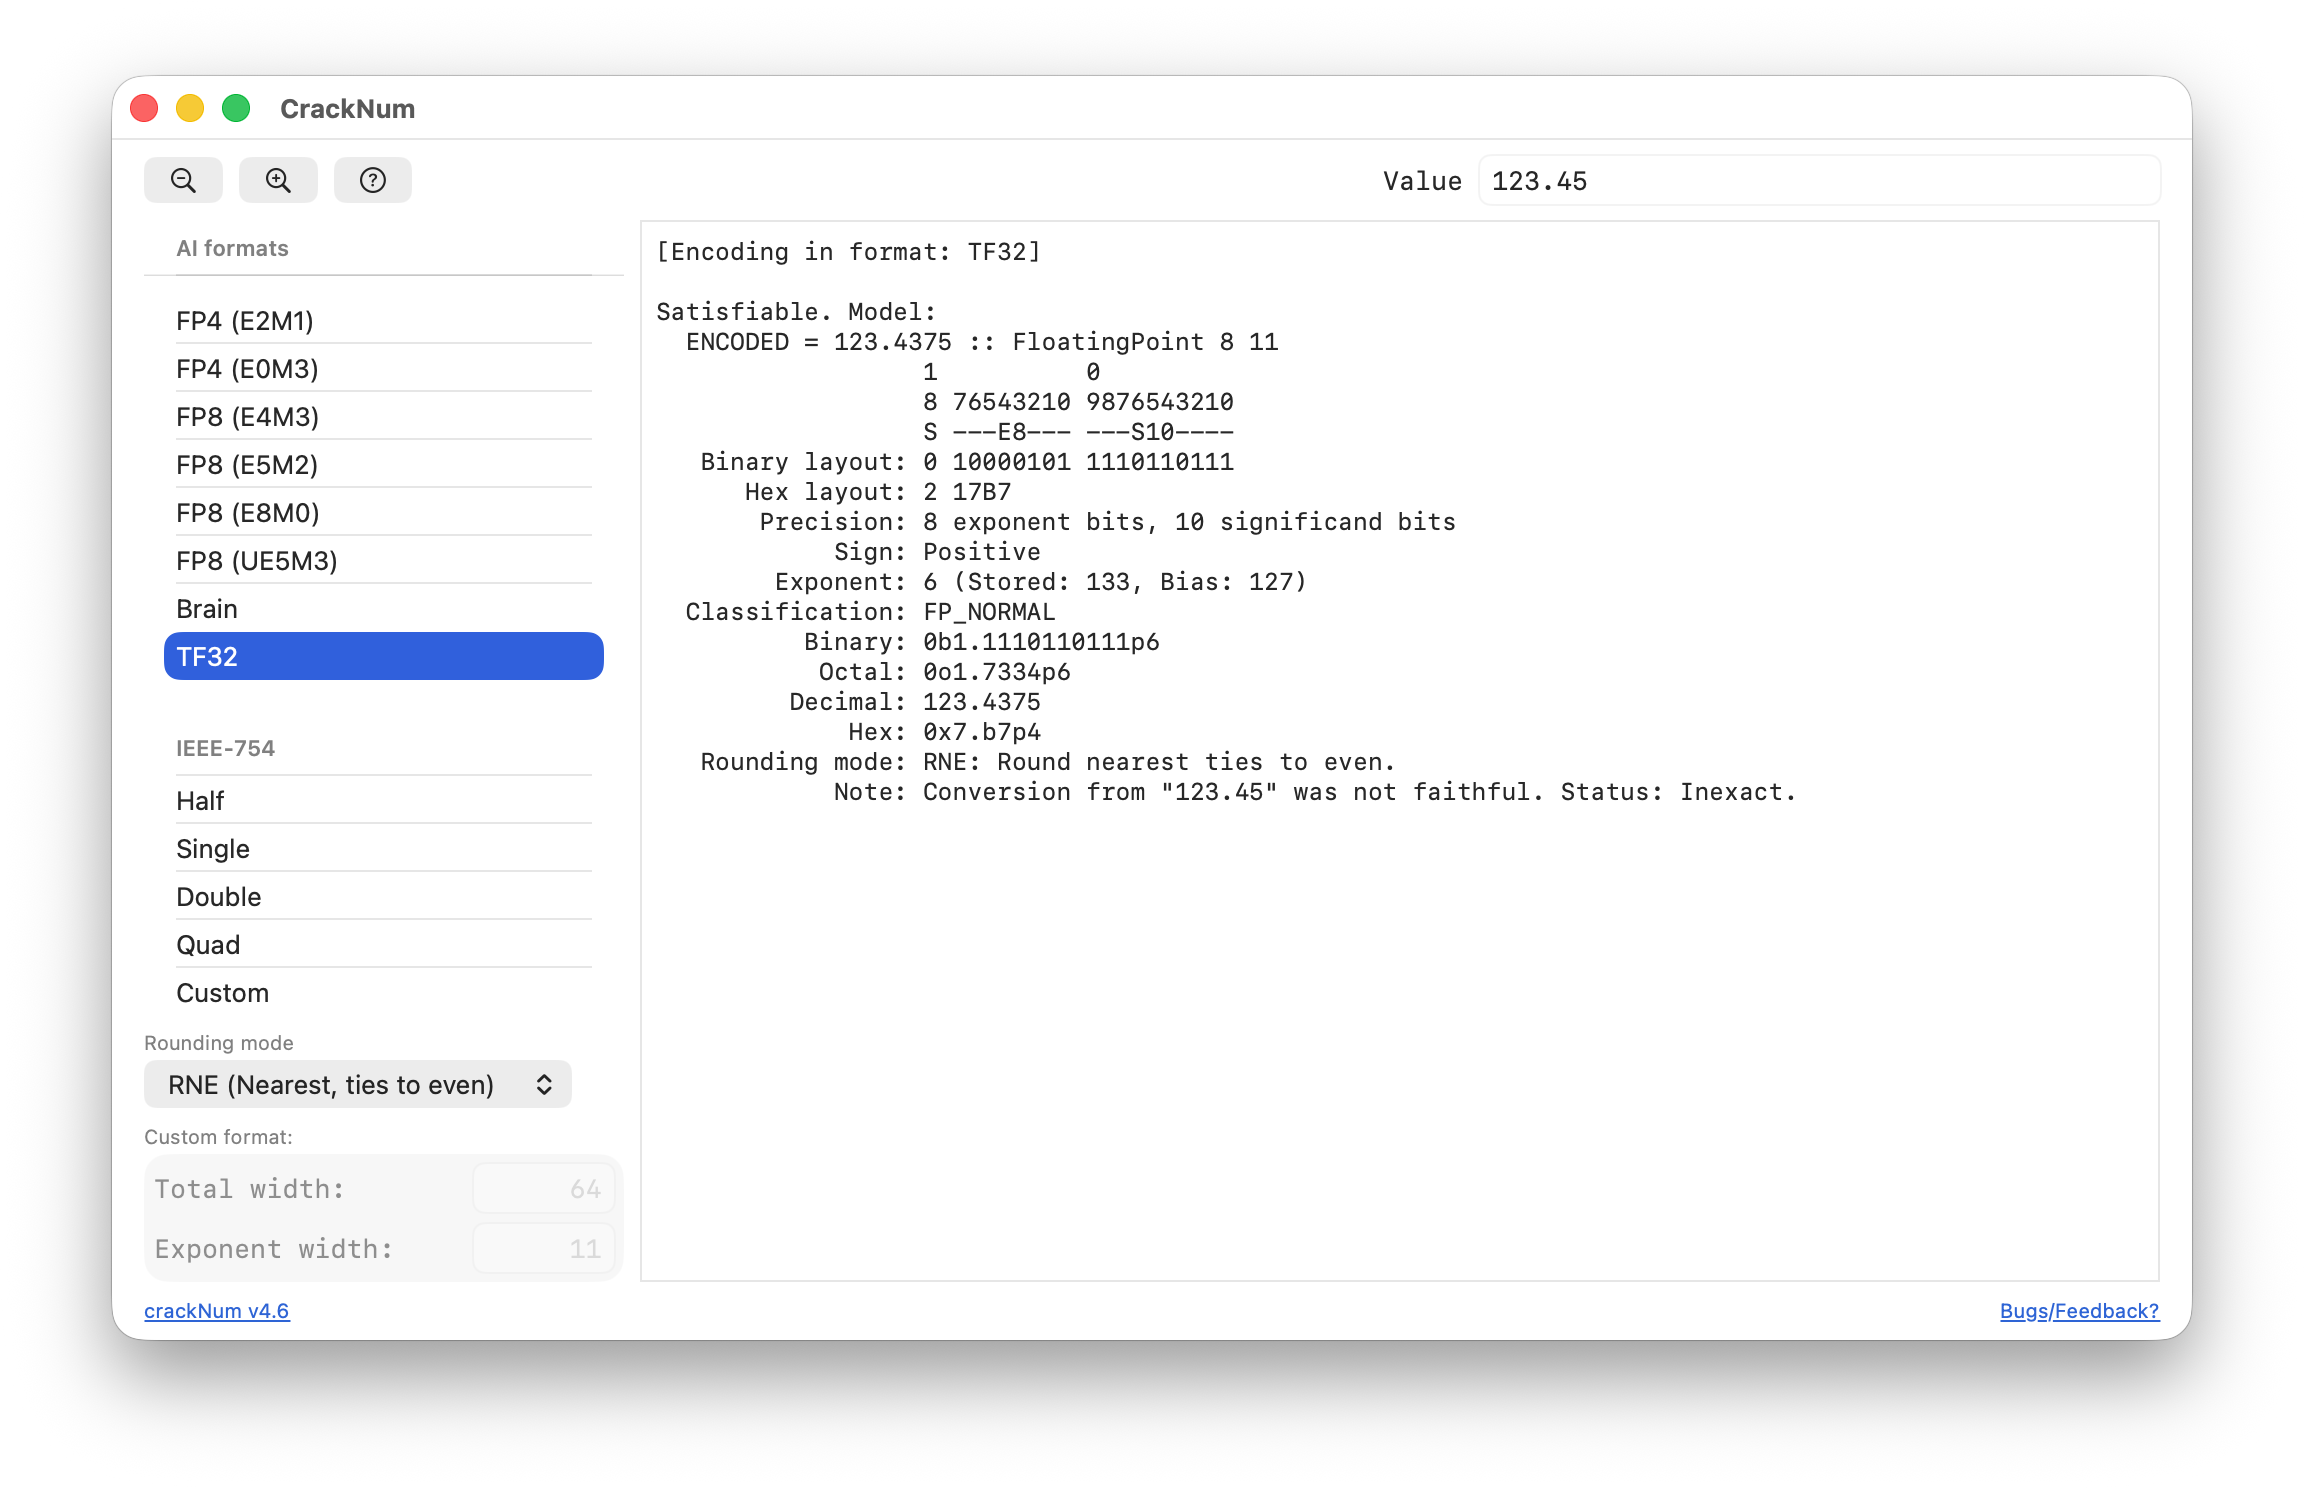
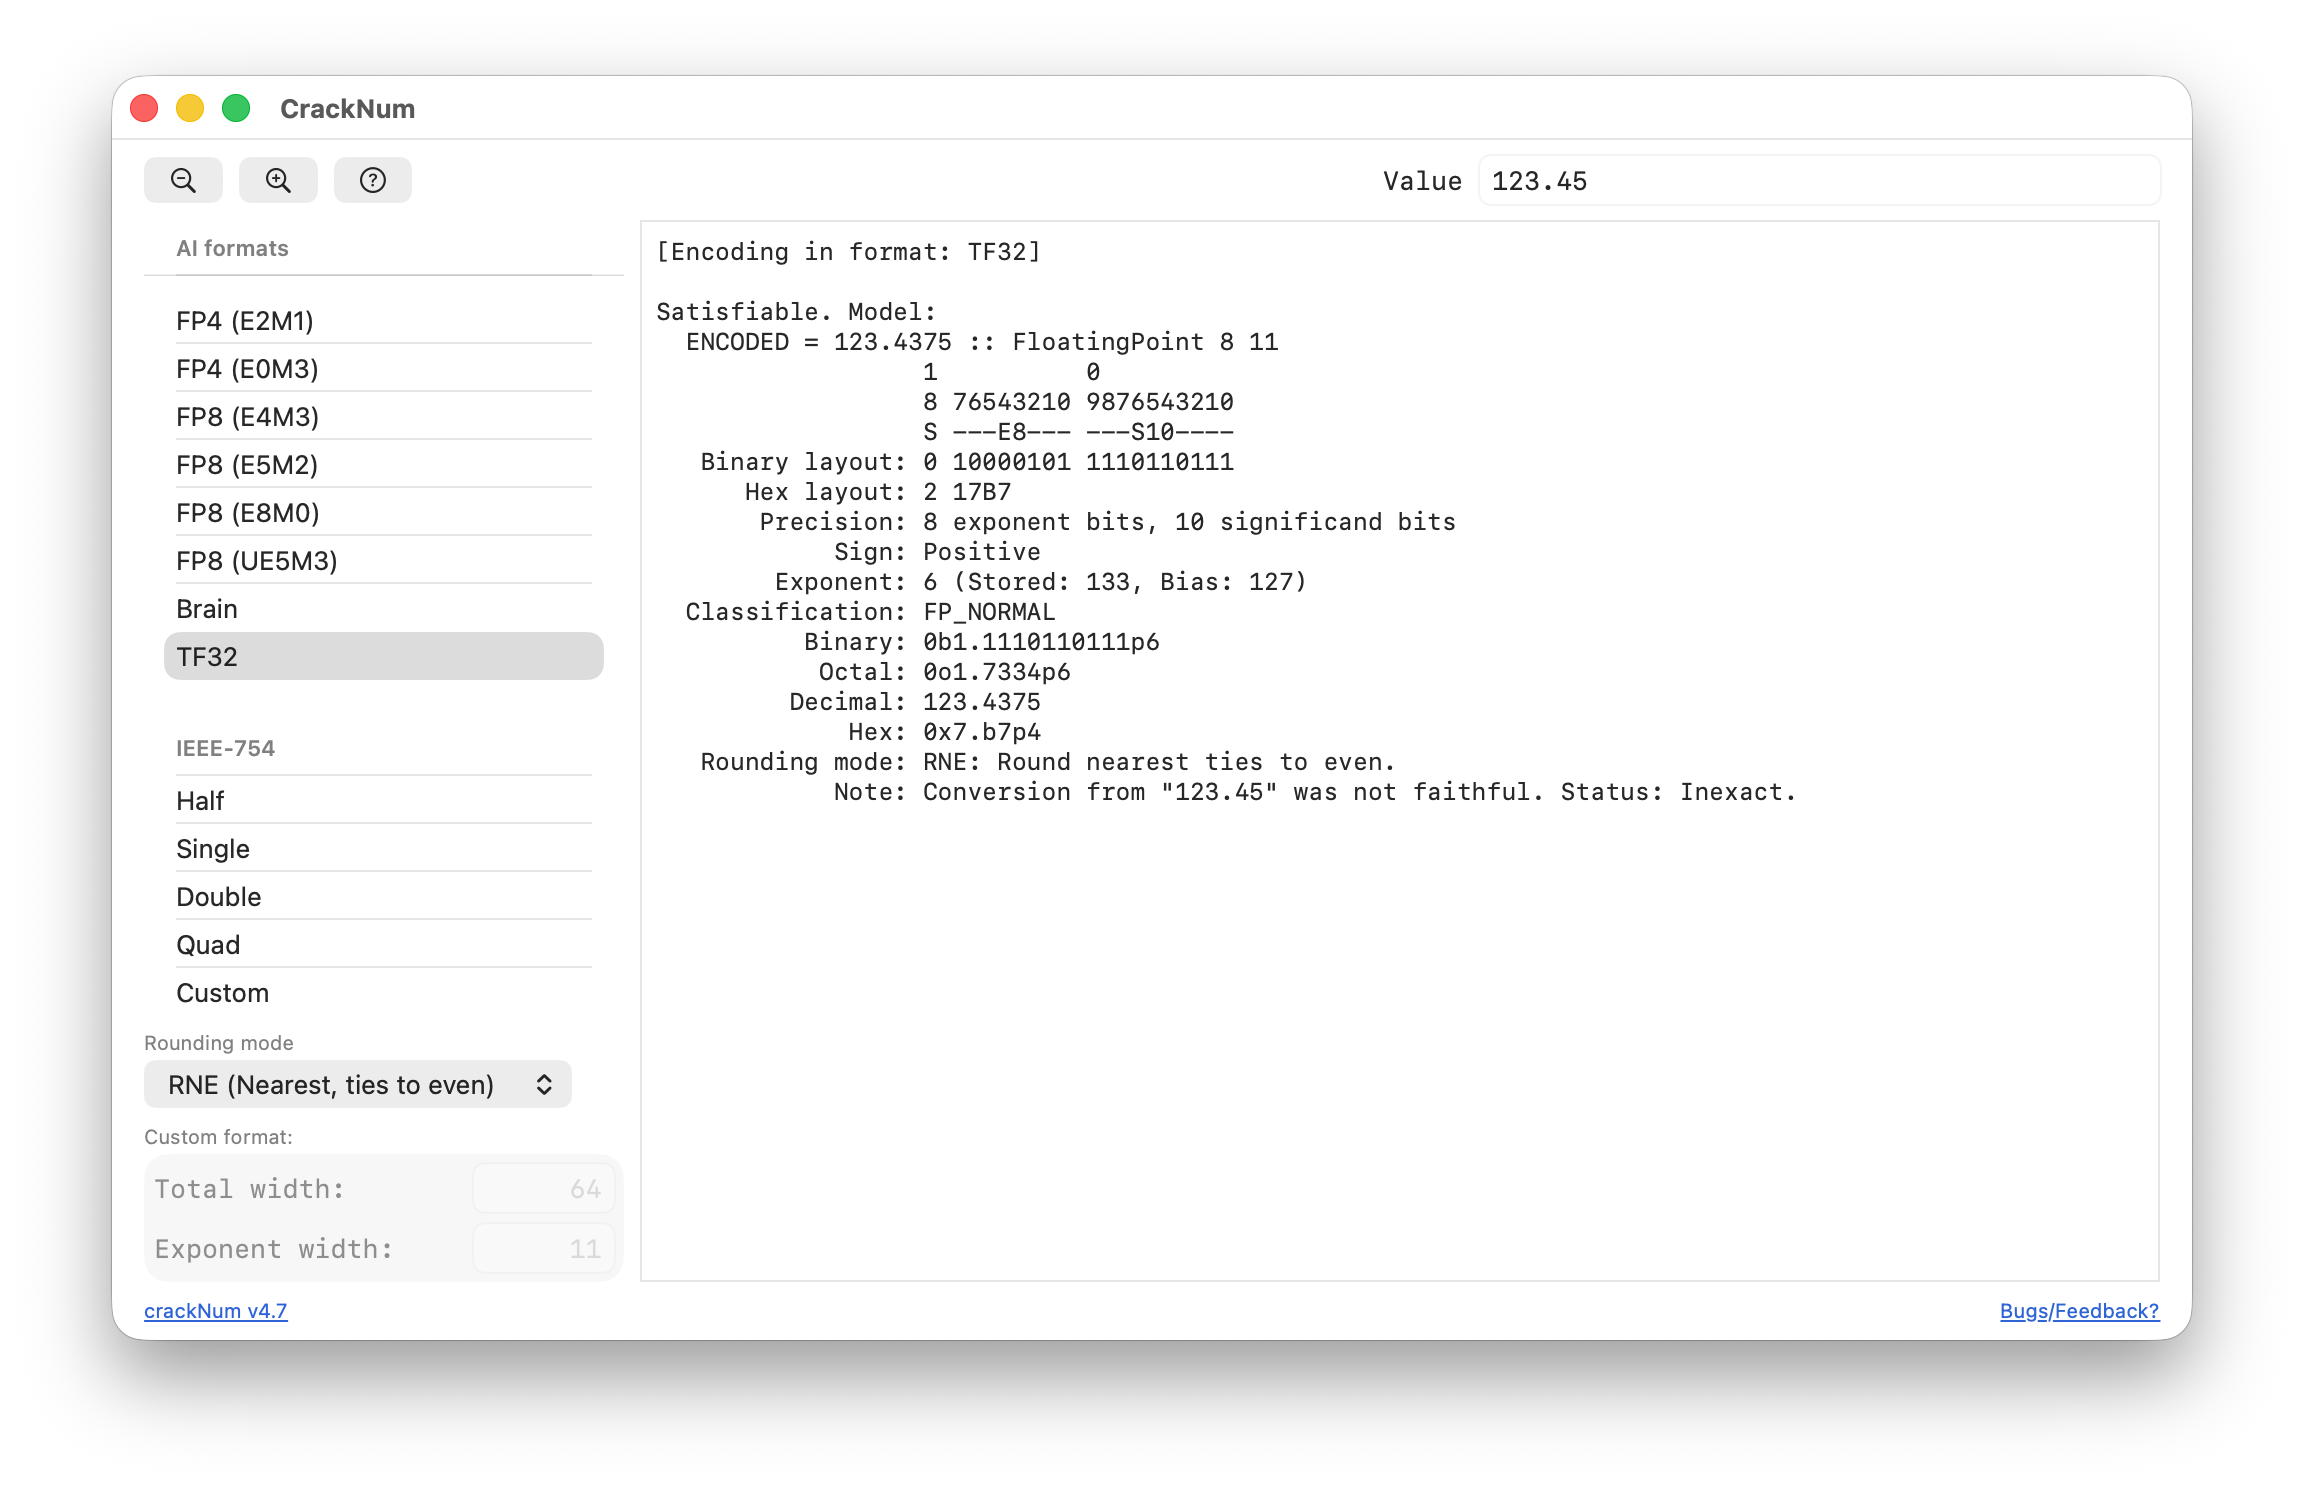
Release 4.7

Changed region(s): [[0.0625, 0.4019, 0.2812, 0.4637], [0.0938, 0.8656, 0.125, 0.8965]]

diff --git a/CHANGES.md b/CHANGES.md
@@ -1,7 +1,20 @@
 * Hackage: <http://hackage.haskell.org/package/crackNum>
 * GitHub:  <http://github.com/LeventErkok/crackNum/>
 
-* Latest Hackage released version: 4.6, 2026-09-03
+* Latest Hackage released version: 4.7, 2026-09-04
+
+### Version 4.7, 2026-09-04
+
+  * Encoding now applies the selected rounding mode directly to the input value.
+    Single- and double-precision decimal inputs previously went through Haskell's
+    default round-to-nearest conversion first, E4M3 used round-to-nearest in its
+    ordinary range, and exact decimal or hexadecimal inputs to the small AI formats
+    could be rounded twice. These cases can now produce different, correctly rounded
+    bit patterns for `RNA`, `RTP`, `RTN`, and `RTZ`, and near exact midpoints.
+
+  * Corrected directed rounding for E4M3 values between 240 and 448 (and their
+    negative counterparts). The implementation previously chose the nearest value
+    first and consulted the rounding mode only on exact ties.
 
 ### Version 4.6, 2026-09-03
 
